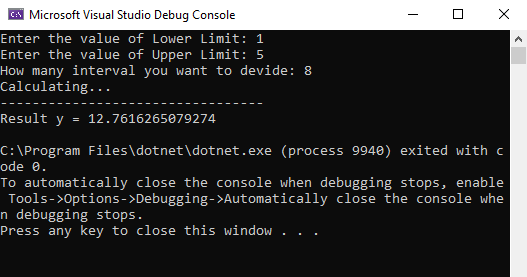
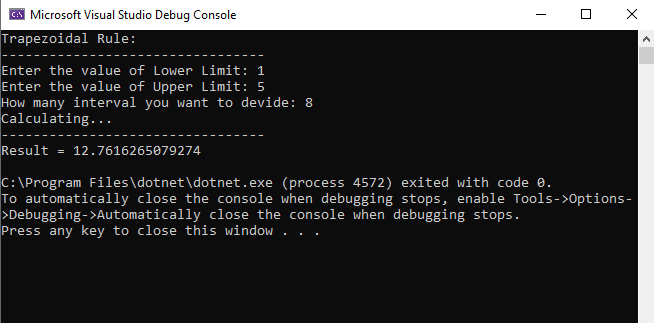
simson's rule

Changed region(s): [[0.0, 0.0, 1.0, 1.0], [0.5769, 0.231, 0.6072, 0.2888]]

diff --git a/NumericalAnalysis/Integral/SimsonThreeEightRule.cs b/NumericalAnalysis/Integral/SimsonThreeEightRule.cs
@@ -3,11 +3,10 @@ using static System.Console;
 
 namespace NumericalAnalysis.Integral
 {
-    //To find the exact value of a definite integral 
-    public class TrapezoidalRule
+    public class SimsonThreeEightRule
     {
-        private double lowerLimit, upperLimit, delX;
-        private int n,i;
+        private double lowerLimit, upperLimit, h;
+        private int n, i; // n:interval should be even
         public double Result { get; private set; }
 
         public void TakeInput()
@@ -16,32 +15,36 @@ namespace NumericalAnalysis.Integral
             lowerLimit = double.Parse(ReadLine());
             Write("Enter the value of Upper Limit: ");
             upperLimit = double.Parse(ReadLine());
+
             Write("How many interval you want to devide: ");
             n = int.Parse(ReadLine());
-
-            delX = (upperLimit - lowerLimit) / n;
+            h = (upperLimit - lowerLimit) / n;
         }
 
         public void ApplyFormula()
         {
+            Result = f(lowerLimit) + f(upperLimit);
             double interval = lowerLimit;
-            Result = f(lowerLimit);
-            for (i=1; i<n; i++)
+            for (i = 1; i < n; i++)
             {
-                interval += delX;
-                Result += 2*f(interval);
+                interval += h;
+                if (i!=3 && i<n)
+                {
+                    Result += (3 * f(interval));
+                }
+                if (i % 3 == 0 && i <= n)
+                {
+                    Result += (2 * f(interval));
+                }
             }
-            Result += f(upperLimit);
-            Result *= delX / 2;
+            Result *= (3 * h / 8);
         }
 
 
         private double f(double x)
         {
-            //Given f(x) = Root(1+x^2)
-            return Math.Sqrt(1 + (x * x));
+            //Given f(x) = 1/x
+            return 1 / x;
         }
-
-
     }
 }

diff --git a/NumericalAnalysis/Integral/SimsonsOneThirdRule.cs b/NumericalAnalysis/Integral/SimsonsOneThirdRule.cs
@@ -1,0 +1,55 @@
+using System;
+using System.Reflection.Emit;
+using static System.Console;
+
+namespace NumericalAnalysis.Integral
+{
+    /// <summary>
+    /// It is used when it is very difficult to solve the given integral mathematically.
+    /// This rule gives approximation easily without actually knowing the integration rules.
+    /// </summary>
+    public class SimsonsOneThirdRule
+    {
+        private double lowerLimit, upperLimit, h;
+        private int n, i; // n:interval should be even
+        public double Result { get; private set; }
+
+        public void TakeInput()
+        {
+            Write("Enter the value of Lower Limit: ");
+            lowerLimit = double.Parse(ReadLine());
+            Write("Enter the value of Upper Limit: ");
+            upperLimit = double.Parse(ReadLine());
+
+            IntervalShouldBeEven:
+            Write("How many interval you want to devide: ");
+            n = int.Parse(ReadLine());
+            if (n % 2 != 0) { goto IntervalShouldBeEven; }
+            h = (upperLimit - lowerLimit) / n;
+        }
+
+        public void ApplyFormula()
+        {
+            Result = f(lowerLimit) + f(upperLimit);
+            double interval = lowerLimit;
+            for (i = 1; i < n; i++)
+            {
+                interval += h;
+                if (i % 2 == 0 && i<n-1) {
+                    Result += (2* f(interval));
+                }
+                if (i % 2 != 0 && i<n) {
+                    Result += (4 * f(interval));
+                 }
+            }
+            Result *= h / 3;
+        }
+
+
+        private double f(double x)
+        {
+            //Given f(x) = log(x)
+            return Math.Log(x);
+        }
+    }
+}

diff --git a/NumericalAnalysis/Program.cs b/NumericalAnalysis/Program.cs
@@ -66,14 +66,32 @@ namespace NumericalAnalysis
             //WriteLine("---------------------------------");
             //WriteLine("Result y = " + li.Result);
 
-            TrapezoidalRule tr = new TrapezoidalRule();
-            WriteLine("Trapezoidal Rule: ");
+            //TrapezoidalRule tr = new TrapezoidalRule();
+            //WriteLine("Trapezoidal Rule: ");
+            //WriteLine("---------------------------------");
+            //tr.TakeInput();
+            //tr.ApplyFormula();
+            //WriteLine("Calculating...");
+            //WriteLine("---------------------------------");
+            //WriteLine($"Solution by trapezoidal rule is = " + tr.Result);
+
+            //SimsonsOneThirdRule sotr = new SimsonsOneThirdRule();
+            //WriteLine("Simson's 1/3 Rule: ");
+            //WriteLine("---------------------------------");
+            //sotr.TakeInput();
+            //sotr.ApplyFormula();
+            //WriteLine("Calculating...");
+            //WriteLine("---------------------------------");
+            //WriteLine($"The approximation of above integral is {sotr.Result} using Simpson's 1/3 rule");
+
+            SimsonThreeEightRule ster = new SimsonThreeEightRule();
+            WriteLine("Simson's 3/8 Rule: ");
             WriteLine("---------------------------------");
-            tr.TakeInput();
-            tr.ApplyFormula();
+            ster.TakeInput();
+            ster.ApplyFormula();
             WriteLine("Calculating...");
             WriteLine("---------------------------------");
-            WriteLine("Result y = " + tr.Result);
+            WriteLine($"Solution by Simpson's 3/8 Rule is {ster.Result}");
         }
     }
 }
